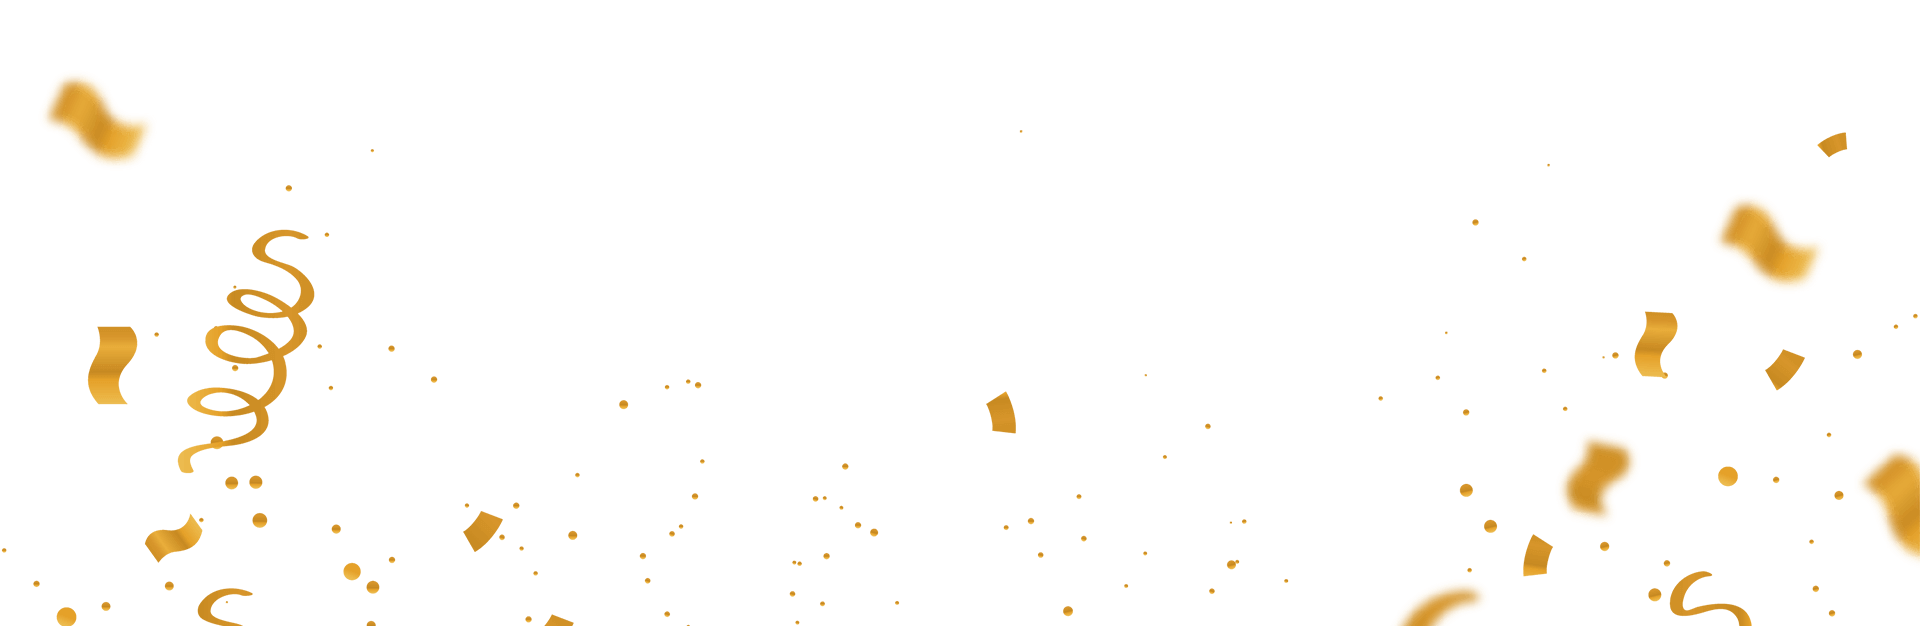
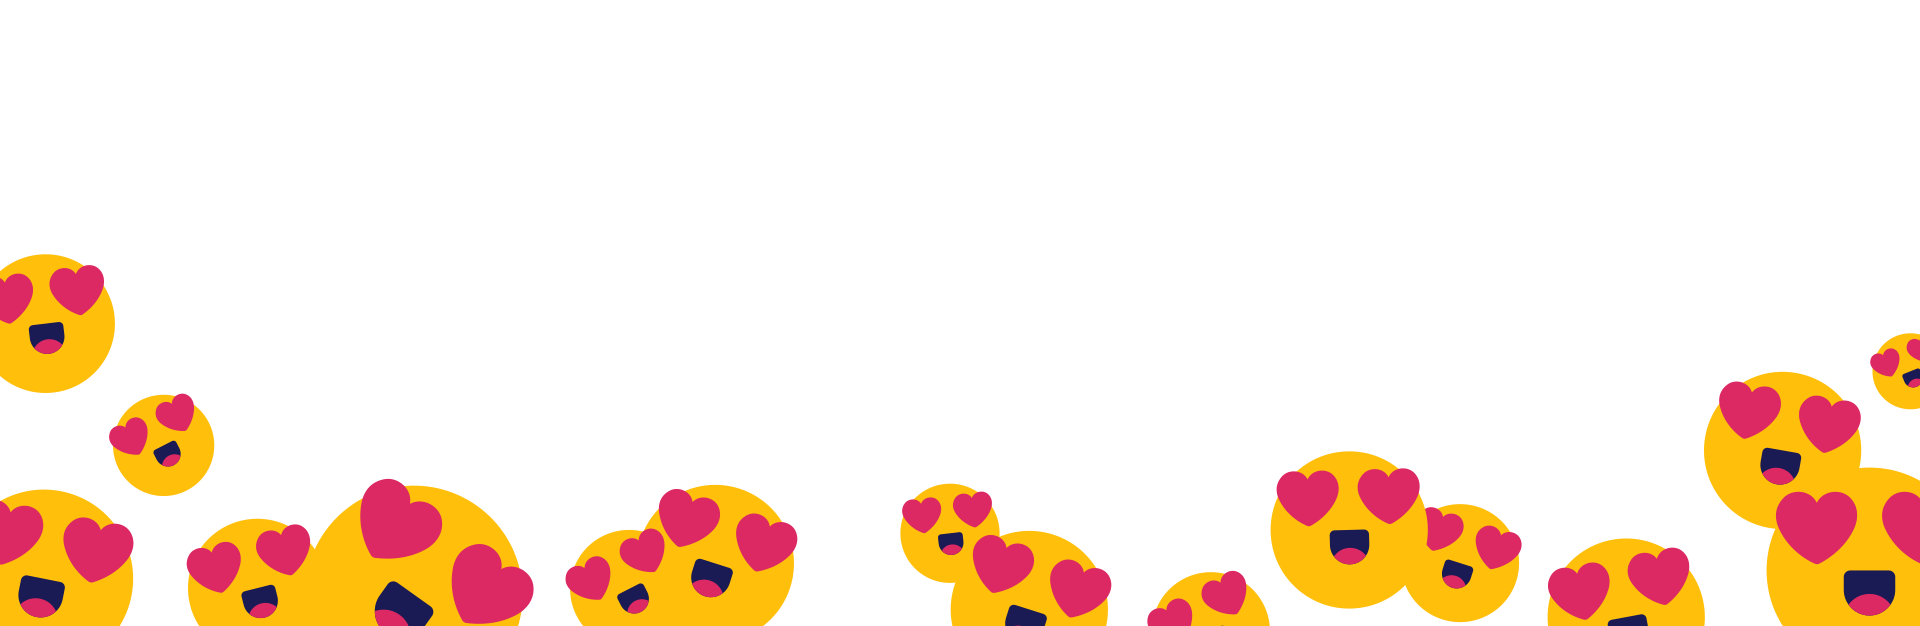
canvas

diff --git a/canvas.js b/canvas.js
@@ -1,0 +1,122 @@
+document.addEventListener('DOMContentLoaded', function(){
+  var canvas = document.getElementById('congrats');
+  var context = canvas.getContext('2d');
+  var image = new Image();
+
+  var emojis = [];
+  var emojiCount = 0;
+  const gravity = .1;
+  //const friction = .001;
+
+  // Canvas (re)size
+  function resize(container){
+    canvas.width = container.offsetWidth;
+    canvas.height = container.offsetHeight;
+  };
+  // Define elements
+  function init(){
+    emojiCount = Math.ceil(canvas.width / 20) < 20 ? Math.ceil(canvas.width / 20) : 20;
+
+    for(var i = 0; i < emojiCount; i++){
+      x = Math.floor(Math.random() * canvas.width);
+      y = Math.floor(canvas.height);
+      size = 15 + (Math.random() * (canvas.width / 15));
+      speed = 2 + Math.random();
+      angle = Math.random() * -45 * (Math.PI / 180);
+      side = (Math.floor(Math.random() -.5) +.5) * 2;
+      rotation = angle * side;
+      speedX = (2 + Math.cos(angle) * speed) * side;
+      speedY = 13.5 + Math.sin(angle) * speed;
+      elasticity = .5 + (Math.random() / 4);
+
+      emojis.push({
+        x: x,
+        y: y,
+        size: size,
+        rotation: rotation,
+        speedX: speedX,
+        speedY: speedY,
+        elasticity: elasticity
+      });
+    };
+  };
+  // Render
+  function draw(){
+    // Clean Canvas
+    context.clearRect(0, 0, canvas.width, canvas.height);
+    // Add elements
+    for(var i = 0; i < emojiCount; i++){
+      var emoji = emojis[i];
+      // Rotate and draw
+      //context.save();
+      //context.translate(emoji.x + emoji.width / 2, emoji.y + emoji.height / 2);
+      //context.rotate(emoji.rotation);
+      context.drawImage(image, emoji.x - (emoji.size / 2), emoji.y - (emoji.size / 2), emoji.size, emoji.size);
+      //context.restore();
+      // Move
+      //emoji.speedX -= emoji.speedX * friction;
+      emoji.speedY += gravity;
+      emoji.x += emoji.speedX;
+      emoji.y += emoji.speedY;
+      // Bounce
+      if(emoji.x + (emoji.size / 2) >= canvas.width || emoji.x - (emoji.size / 2) <= 0){
+        emoji.speedX = -emoji.speedX;
+        emoji.speedX *= emoji.elasticity;
+      };
+      if(emoji.y + (emoji.size / 2) >= canvas.height || emoji.y - (emoji.size / 2) <= 0){
+        emoji.speedY = -emoji.speedY;
+        emoji.speedY *= emoji.elasticity;
+      }
+      // Stop
+      if(emoji.x - (emoji.size / 2) <= 0){
+      	emoji.x = emoji.size / 2;
+      };
+      if(emoji.x + (emoji.size / 2) >= canvas.width){
+        emoji.x = canvas.width - emoji.size / 2;
+      };
+      if(emoji.y - (emoji.size / 2) <= 0){
+      	emoji.y = emoji.size / 2;
+      };
+      if(emoji.y + (emoji.size / 2) >= canvas.height){
+        emoji.y = canvas.height - emoji.size / 2;
+      };
+      // Animate
+      context.beginPath();
+      context.arc(emoji.x, emoji.y, emoji.size, 0, Math.PI * 2);
+    };
+    requestAnimationFrame(draw);
+  };
+
+  window.addEventListener('draw', function(){ //load
+    resize(canvas);
+    init();
+    image.onload = function(){
+      draw();
+    };
+    image.src = './assets/smile.svg';
+  }, {once: true});
+  window.addEventListener('resize', function(){
+    resize(canvas);
+    init();
+  });
+  window.addEventListener('orientationchange', function(){
+    resize(canvas);
+    init();
+  });
+  canvas.addEventListener('click', function(event){ //mouseover
+    var clickX = event.pageX - (canvas.getBoundingClientRect().left + window.scrollX);
+    var clickY = event.pageY - (canvas.getBoundingClientRect().top + window.scrollY);
+
+    for(var i = 0; i < emojiCount; i++){
+      var emoji = emojis[i];
+      // if(clickX >= emoji.x - emoji.size && clickX <= emoji.x + emoji.size){
+      //   emoji.speedX = emoji.speedX * Math.random() * 2;
+      //   emoji.speedX /= emoji.elasticity;
+      // };
+      if(clickY >= emoji.y - emoji.size && clickY <= emoji.y + emoji.size){
+        emoji.speedY = Math.abs(emoji.speedY) + (Math.random() * 5);
+        emoji.speedY /= emoji.elasticity;
+      };
+    };
+  });
+});

diff --git a/index.html b/index.html
@@ -238,6 +238,12 @@
     #infos {
       margin: .75em auto;
     }
+    #congrats {
+      position: absolute;
+      top: 0; left: 0; bottom: 0; right: 0;
+      width: 100%; height: 100%;
+      z-index: 1;
+    }
     .section_title {
       font-size: 115%;
       padding-top: 1em;
@@ -268,7 +274,7 @@
     }
     .block_button:not(:hover) {
       border-color: #E39825;
-      animation: pulse 3s infinite 1s;
+      animation: pulse 3s infinite .5s;
     }
     /* Keyframes */
     @keyframes pulse {
@@ -544,22 +550,34 @@
         </div>
       </a>
     </div>
+    <canvas id="congrats" width="100%" height="100%"></canvas>
   </div>
 
   <script>
     $(document).ready(function(){
+      var canvas = false;
+
       // Check progression
       function jsJourney(){
         var distance = $(window).scrollTop() + 1;
         var em = parseFloat($('body').css('font-size'));
 
         $('.section').each(function(item){
-          if(distance >= ($(this).offset().top - (10 * em))){
+          if(distance >= $(this).offset().top - (10 * em)){
             $('#journey .current').children('i').toggleClass('fas far').parent('.current').removeClass('current');
             $('#journey a:nth-of-type(' + (item + 1) + ')').addClass('current').children('i').toggleClass('fas far');
           };
         });
+
+        // Draw canvas
+        if(canvas === false){
+          if(distance >= $('.section:last-of-type').offset().top - (10 * em)){
+            dispatchEvent(new CustomEvent('draw', {}));
+            canvas = true;
+          };
+        };
       };
+
       jsJourney();
       $(window).on('scroll orientationchange resize', function(){ jsJourney(); });
 
@@ -597,5 +615,7 @@
       });
     });
   </script>
+
+  <script src="./canvas.js" defer></script>
 </body>
 </html>
